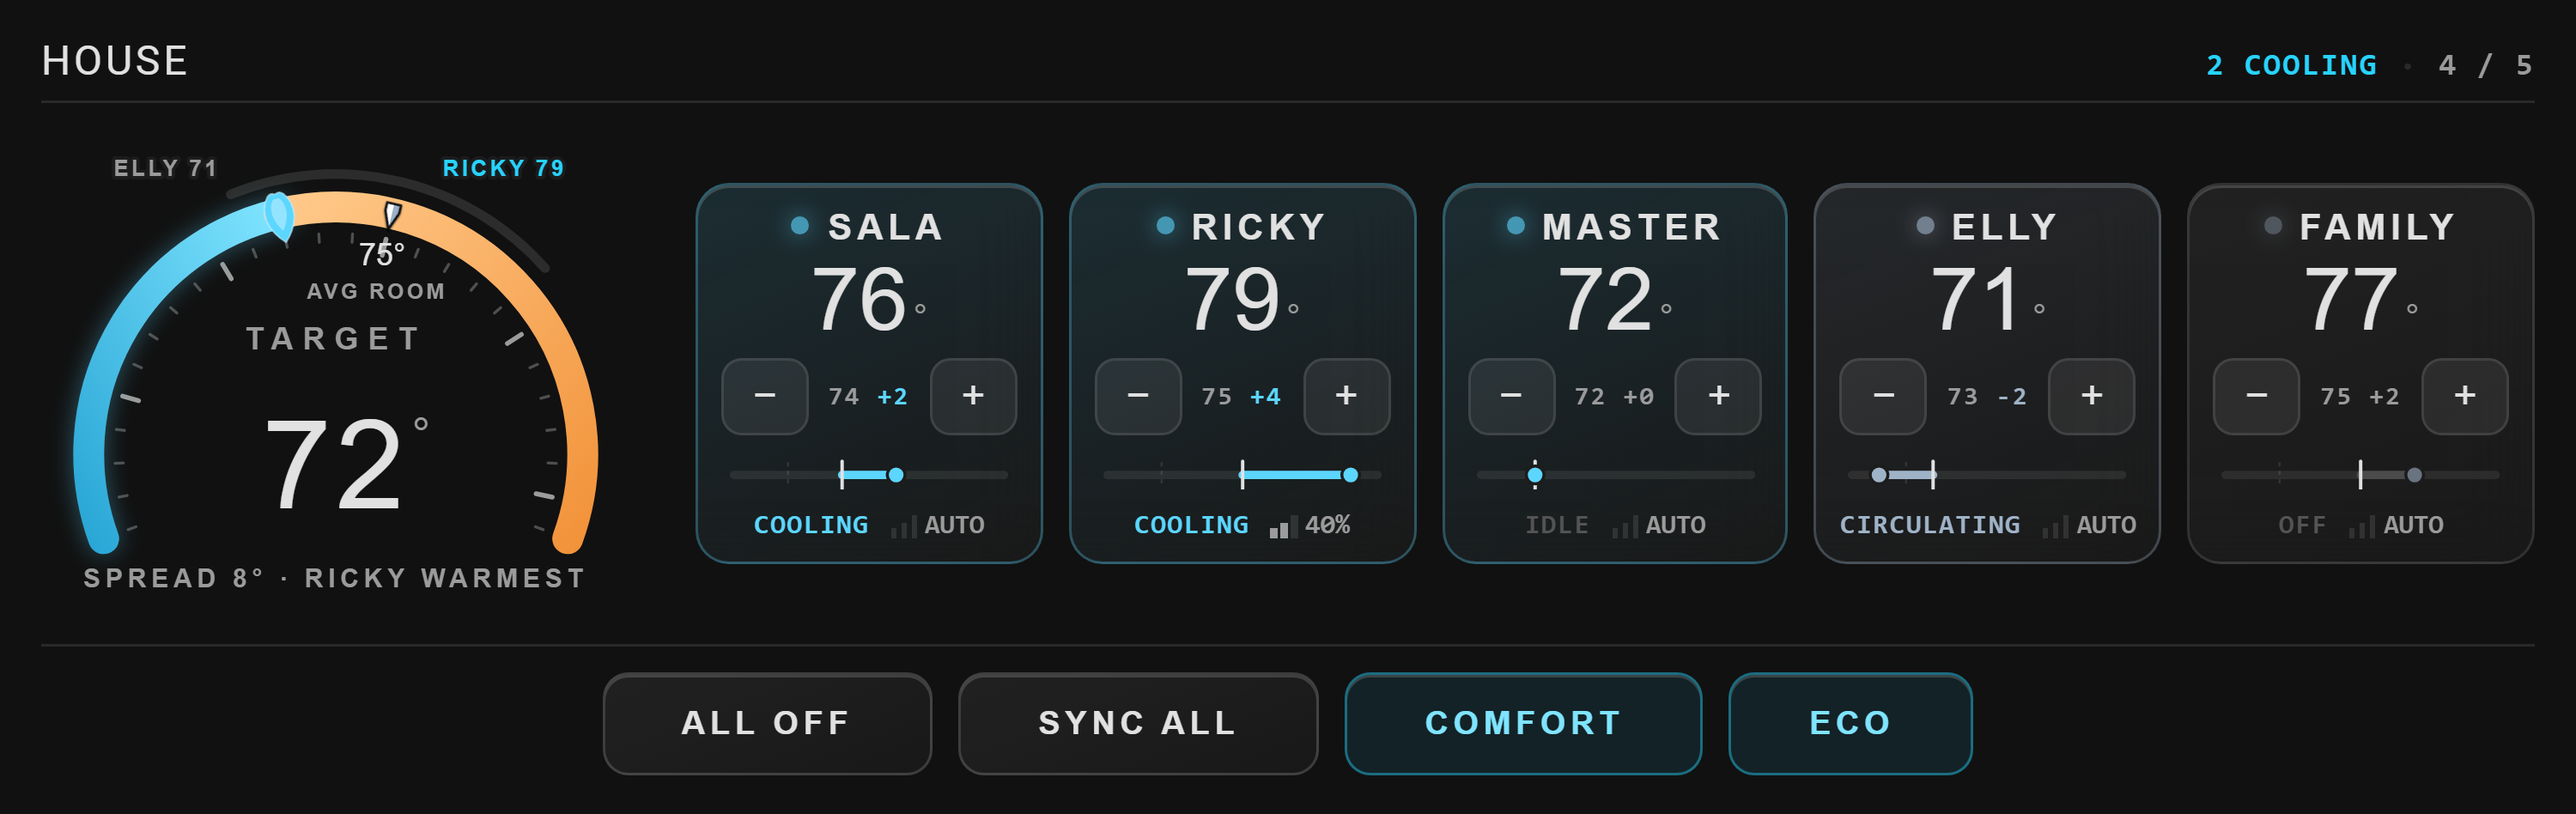
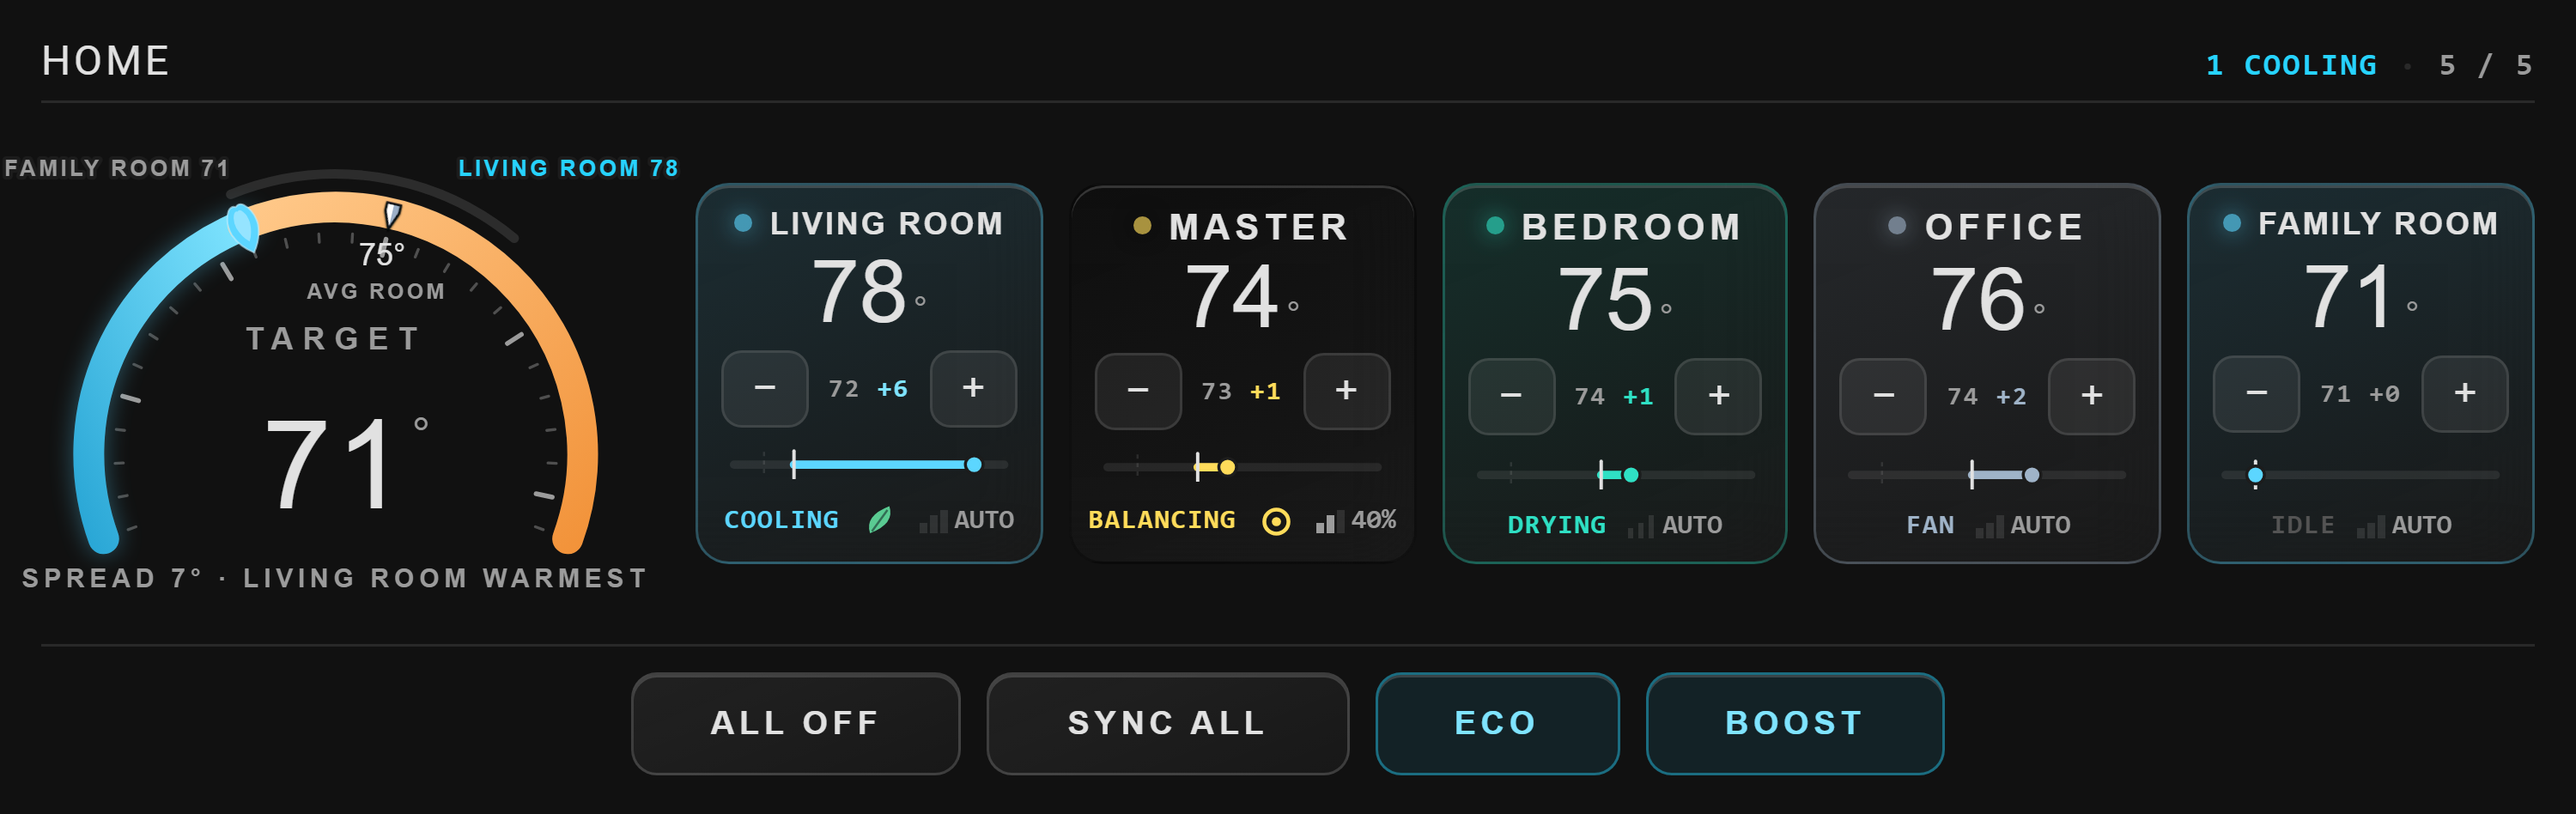
Let real room names through, and reshoot on a real house
Shooting the release screenshots with Living Room, Master, Bedroom, Office and
Family Room instead of short names broke three layouts: the two hero ring
labels flipped inward and overlapped, two word tile captions wrapped and
knocked the numerals out of line, and a truncated caption had no way back to
the full name. All three fixed, with tests, before the frames were taken.

Assets reshot: five rooms in five different states, ECO and BOOST on the bar.

diff --git a/climate-cluster-card.js b/climate-cluster-card.js
@@ -1312,24 +1312,55 @@
     return clamp(y, 80, 150);
   }
 
-  function ringLabel(text, a, ink, y) {
+  /* Where one end label wants to sit, as a box rather than as markup, so the two of
+     them can be compared before either is drawn.
+
+     Grow AWAY from the dial by preference, because that is the empty side. Near
+     either end of the range the ring end swings low and outward runs the label off
+     the card, so it flips and grows back across the arc instead. The width is
+     estimated rather than measured because this returns a string, and 5.6 per
+     character at 9.5px with this tracking is close enough to decide which way is
+     safe. */
+  function ringLabelBox(text, a, y) {
     var p = P(130, a), left = ((a % 360) + 360) % 360 > 180;
-    /* Grow AWAY from the dial by preference, because that is the empty side. Near
-       either end of the range the ring end swings low and outward runs the label off
-       the card, so it flips and grows back across the arc instead; the knockout is
-       what keeps it readable when it does. The width is estimated rather than
-       measured because this returns a string, and 5.6 per character at 9.5px with
-       this tracking is close enough to decide which way is safe. */
     var w = String(text).length * 5.6;
-    var anchor = left ? 'end' : 'start', dy = 0;
-    /* Flipped, the label runs back across its own ring end, and at the low end of
-       the range that is exactly where the needle stands. Lift it clear. */
-    if (left && p[0] - w < 48) { anchor = 'start'; dy = -11; }
-    if (!left && p[0] + w > 296) { anchor = 'end'; dy = -11; }
-    var yy = y == null ? p[1] + dy : y;
-    return '<text class="cg-ringlab" x="' + f(p[0]) + '" y="' + f(yy) + '" text-anchor="' +
-      anchor + '" dominant-baseline="central" font-size="9.5" ' +
-      'font-weight="600" letter-spacing="1.2" fill="' + ink + '">' + text + '</text>';
+    /* Always outward. The first version flipped the anchor when the label would
+       leave the card, which sends it back ACROSS the dial: measured on a real house
+       that turned two labels that could not touch into two that overlapped by 25
+       units. Growing outward and then sliding the whole label back inside the box
+       keeps them on their own sides, where they cannot meet. */
+    var anchor = left ? 'end' : 'start';
+    var x = p[0];
+    // the hero viewBox runs x 44 to 300; a label that leaves it is simply gone
+    var x0 = anchor === 'end' ? x - w : x;
+    if (x0 < 46) { x += 46 - x0; x0 = 46; }
+    if (x0 + w > 298) { x -= (x0 + w) - 298; x0 = 298 - w; }
+    return { text: text, x: x, y: y, anchor: anchor, w: w, x0: x0, x1: x0 + w };
+  }
+
+  function ringLabelDraw(b, ink) {
+    return '<text class="cg-ringlab" x="' + f(b.x) + '" y="' + f(b.y) + '" text-anchor="' +
+      b.anchor + '" dominant-baseline="central" font-size="9.5" ' +
+      'font-weight="600" letter-spacing="1.2" fill="' + ink + '">' + b.text + '</text>';
+  }
+
+  /* CARD ADDITION: the two are laid out TOGETHER, because neither can see the other
+     and a shared baseline made a collision MORE likely rather than less.
+
+     With a narrow spread both ring ends sit near twelve o'clock, and two long room
+     names then run straight through each other: measured on a real house,
+     "FAMILY ROOM 71" and "LIVING ROOM 78" overlapped into one unreadable string.
+     Side by side while they fit, because that is what reads as a pair; the warmer
+     one drops to a second line when they do not. */
+  function ringLabelPair(coldText, warmText, lo, hi, showCold) {
+    var y = ringLabelY(lo, hi);
+    var warm = ringLabelBox(warmText, hi, y);
+    if (!showCold) return ringLabelDraw(warm, '#27d3ff');
+    var cold = ringLabelBox(coldText, lo, y);
+    var GAP = 6;
+    var clear = cold.x1 + GAP <= warm.x0 || warm.x1 + GAP <= cold.x0;
+    if (!clear) warm.y = y + 12;
+    return ringLabelDraw(cold, '#8b95a2') + ringLabelDraw(warm, '#27d3ff');
   }
 
   function hero(s, d) {
@@ -1363,11 +1394,10 @@
          the dial so a long room name grows outward instead of across the band. */
       /* CARD ADDITION: with every room at the same temperature the two ends ARE the
          same end, and drawing both put one label exactly on top of the other. */
-      (d.spread === 0 ? '' :
-        ringLabel(String(d.coldestRoom.name || '').toUpperCase() + ' ' + d.roomMin, lo,
-          '#8b95a2', ringLabelY(lo, hi))) +
-      ringLabel(String(d.warmest.name || '').toUpperCase() + ' ' + d.roomMax, hi,
-        '#27d3ff', ringLabelY(lo, hi)) +
+      ringLabelPair(
+        String(d.coldestRoom.name || '').toUpperCase() + ' ' + d.roomMin,
+        String(d.warmest.name || '').toUpperCase() + ' ' + d.roomMax,
+        lo, hi, d.spread !== 0) +
       heroNeedle(ta) +
       heroPin(d.roomAvg, pa) +
       '<text class="cg-target-lb" x="168" y="164" text-anchor="middle" font-size="13" ' +
@@ -1492,6 +1522,14 @@
     return { word: m.status, live: true };
   }
 
+  /* CARD ADDITION: the caption shrinks before it truncates. Three steps rather than
+     a continuous fit, because this returns a string and cannot measure anything. */
+  function tileNameSize(len) {
+    if (!len || len <= 8) return 14;
+    if (len <= 11) return 12;
+    return 11;
+  }
+
   function tile(z, i, d) {
     /* CARD ADDITION: an unknown mode falls back rather than throwing, and a zone with
        no reading shows the dash the shipped card shows rather than the word NaN. */
@@ -1511,7 +1549,8 @@
         '; backdrop-filter:blur(14px) saturate(130%); -webkit-backdrop-filter:blur(14px) saturate(130%); ' +
         'box-shadow:inset 0 1px 0 rgba(255,255,255,.14); padding:9px 9px 8px; display:flex; ' +
         'flex-direction:column; justify-content:space-between; gap:5px;">' +
-      '<div style="display:flex; align-items:center; justify-content:center; gap:7px;">' +
+      '<div style="display:flex; align-items:center; justify-content:center; gap:7px; ' +
+        'min-width:0;">' +
         /* CARD ADDITION: it breathes, on the same 1.9s as the dial's status dot,
            from the same keyframe, so the two cards cannot drift to two rates that
            look almost the same. A room with no reading holds still: there is nothing
@@ -1519,8 +1558,22 @@
         '<span style="width:7px; height:7px; border-radius:50%; background:' + m.ink +
           '; box-shadow:0 0 9px ' + rgba(m.ink, .85) + ';' +
           (nore ? '' : ' animation:pulse 1.9s ease-in-out infinite;') + '"></span>' +
-        '<span style="font:600 14px/1 Rajdhani,sans-serif; letter-spacing:.14em; ' +
-          'text-transform:uppercase; color:#f2f5f8;">' + z.name + '</span></div>' +
+        /* CARD ADDITION: one line, always, and the whole name on it.
+
+           A real house has rooms called "Living Room" and "Family Room". At the
+           shipped 14px with .14em tracking those wrapped to two lines while "Master"
+           did not, so the numeral underneath sat at a different height on every other
+           tile and the row stopped reading as a row. Nowrap alone only traded that
+           for "LIVING R...", so the caption gives up size and tracking before it
+           gives up letters: a tile is about 110 wide and 11 characters at 12px with
+           .08em is about 96 of it. Past that it does truncate, and the full name is
+           on the tooltip, the same bargain the dial's own title makes. */
+        '<span class="cg-tilename" title="' + (z.titleAttr || '') +
+          '" style="font:600 ' + tileNameSize(z.nameLen) + 'px/1 Rajdhani,sans-serif; ' +
+          'letter-spacing:' + (z.nameLen > 8 ? '.08em' : '.14em') + '; ' +
+          'text-transform:uppercase; color:#f2f5f8; min-width:0; ' +
+          'white-space:nowrap; overflow:hidden; text-overflow:ellipsis;">' +
+          z.name + '</span></div>' +
       /* the numeral is the ROOM, the fact you walked over to check, and tapping it
          opens this zone's sheet */
       '<div data-act="sheet" style="display:flex; align-items:baseline; justify-content:center; ' +
@@ -7816,6 +7869,11 @@ ${FACE.KEYFRAMES}
           id: z.entity,
           name: escapeText(short[zi] || rawName),
           title: escapeText(rawName),
+          // the same name again, safe to drop into an attribute, for the tile's tooltip
+          titleAttr: escapeAttr(rawName),
+          // measured on the RAW string: escaping turns one ampersand into five
+          // characters, and the tile sizes its caption by length
+          nameLen: String(short[zi] || rawName).length,
           room: dead ? null : num(a.current_temperature),
           set: dead ? null : opt("set", this._setpoint(st)),
           mode: dead ? "unavailable" : opt("mode", st.state),

diff --git a/test/zone_render.test.js b/test/zone_render.test.js
@@ -261,3 +261,92 @@ test("bar: a silly action_rows is ignored rather than breaking the bar", () => {
     assert.match(bar.getAttribute("style"), /display:flex/, JSON.stringify(bad));
   }
 });
+
+test("hero: two long room names do not run through each other", () => {
+  // measured on a real house: with a narrow spread both ring ends sit near twelve
+  // o'clock, and "FAMILY ROOM 71" met "LIVING ROOM 78" head on
+  const long = JSON.parse(JSON.stringify(states));
+  long["climate.sala"].attributes.friendly_name = "Living Room";
+  long["climate.sala"].attributes.current_temperature = 78;
+  long["climate.ricky"].attributes.friendly_name = "Family Room";
+  long["climate.ricky"].attributes.current_temperature = 71;
+  long["climate.elly"].attributes.friendly_name = "Bedroom";
+  long["climate.elly"].attributes.current_temperature = 75;
+
+  const svg = html(makeGroup({}, makeHass(long, { entities })));
+  const labs = [...svg.matchAll(
+    /class="cg-ringlab" x="([-0-9.]+)" y="([-0-9.]+)" text-anchor="(\w+)"[^>]*>([^<]+)</g)]
+    .map((m) => {
+      const w = m[4].length * 5.6;
+      const x = Number(m[1]);
+      return { x0: m[3] === "end" ? x - w : x, x1: (m[3] === "end" ? x - w : x) + w,
+        y: Number(m[2]), text: m[4] };
+    });
+  assert.equal(labs.length, 2, "both ends are named");
+
+  const [a, b] = labs;
+  const apart = a.x1 <= b.x0 || b.x1 <= a.x0 || a.y !== b.y;
+  assert.ok(apart, "side by side or on two lines, never on top of each other: "
+    + JSON.stringify(labs));
+});
+
+test("hero: names that fit stay on one line", () => {
+  const svg = html(makeGroup());
+  const ys = [...svg.matchAll(/class="cg-ringlab"[^>]*y="([-0-9.]+)"/g)].map((m) => Number(m[1]));
+  assert.equal(ys[0], ys[1], "stacking is the exception, not the new normal");
+});
+
+test("hero: a label cannot leave the card", () => {
+  const long = JSON.parse(JSON.stringify(states));
+  long["climate.sala"].attributes.friendly_name = "Downstairs Guest Bedroom Annexe";
+  long["climate.sala"].attributes.current_temperature = 86;
+  const svg = html(makeGroup({}, makeHass(long, { entities })));
+  for (const m of svg.matchAll(
+    /class="cg-ringlab" x="([-0-9.]+)" y="[-0-9.]+" text-anchor="(\w+)"[^>]*>([^<]+)</g)) {
+    const w = m[3].length * 5.6, x = Number(m[1]);
+    const x0 = m[2] === "end" ? x - w : x;
+    assert.ok(x0 >= 44 && x0 + w <= 300, m[3] + " stays inside the hero viewBox");
+  }
+});
+
+test("tiles: a two word room name stays on one line", () => {
+  const long = JSON.parse(JSON.stringify(states));
+  long["climate.sala"].attributes.friendly_name = "Living Room";
+  long["climate.ricky"].attributes.friendly_name = "Family Room";
+  long["climate.elly"].attributes.friendly_name = "Master";
+  const el = makeGroup({}, makeHass(long, { entities }));
+
+  const names = [...el.shadowRoot.querySelectorAll("[data-zone] .cg-tilename")];
+  assert.equal(names.length, 3, "every tile names its room");
+  for (const n of names) {
+    const st = n.getAttribute("style") || "";
+    assert.match(st, /white-space:nowrap/, n.textContent + " must not wrap");
+    assert.match(st, /text-overflow:ellipsis/);
+  }
+  assert.equal(names[0].getAttribute("title"), "Living Room",
+    "and the full name is still reachable, the way the dial's title is");
+});
+
+test("tiles: a name carrying a quote cannot break out of the tooltip", () => {
+  const bad = JSON.parse(JSON.stringify(states));
+  bad["climate.sala"].attributes.friendly_name = 'Rick"s <b>Room</b>';
+  const el = makeGroup({}, makeHass(bad, { entities }));
+  const n = el.shadowRoot.querySelector("[data-zone] .cg-tilename");
+  assert.equal(n.getAttribute("title"), 'Rick"s <b>Room</b>', "escaped in, decoded back");
+  assert.equal(el.shadowRoot.querySelectorAll("[data-zone] b").length, 0,
+    "and no element came out of it");
+});
+
+test("tiles: the caption gives up size before it gives up letters", () => {
+  const nm = (n) => {
+    const st = JSON.parse(JSON.stringify(states));
+    st["climate.sala"].attributes.friendly_name = n;
+    return makeGroup({}, makeHass(st, { entities }))
+      .shadowRoot.querySelector("[data-zone] .cg-tilename").getAttribute("style");
+  };
+  assert.match(nm("Master"), /font:600 14px/, "a short name keeps the full size");
+  assert.match(nm("Master"), /letter-spacing:\.14em/);
+  assert.match(nm("Living Room"), /font:600 12px/, "eleven characters step down");
+  assert.match(nm("Living Room"), /letter-spacing:\.08em/, "and lose the wide tracking");
+  assert.match(nm("Downstairs Annexe"), /font:600 11px/, "and a long one steps down again");
+});

diff --git a/CHANGELOG.md b/CHANGELOG.md
@@ -119,6 +119,18 @@ every key that shipped before this release still reads the same way.
   finger on "low" drew the ring a third of the way round and the marker stepped
   forward the moment it lifted. Both now come from one pair of functions, and the
   round trip is asserted for every stop count.
+- Real room names broke three layouts, found by shooting the release screenshots with
+  a real house in them instead of the short names every earlier capture used.
+  (a) The two ring labels ran through each other: near a narrow spread both ends sit
+  close to twelve o'clock, and a label that would leave the card flipped and grew back
+  ACROSS the dial, so "FAMILY ROOM 71" and "LIVING ROOM 78" overlapped by 25 units.
+  They now always grow outward and slide back inside the box, which leaves them 96
+  units apart on one baseline. (b) A two word room name wrapped to two lines in a
+  tile while a one word name did not, so the numeral underneath sat at a different
+  height on every other tile; the caption now gives up size and tracking before it
+  gives up letters. (c) A caption that does have to truncate now carries the full
+  name as a tooltip, attribute-escaped separately from the text so a name with a
+  quote in it cannot break out of it.
 - The group card's house gauge had the same three, where a release writes every room
   rather than one setpoint, plus a fourth: a second finger landing on the gauge
   rebound its move and release handlers and stranded the old pair on the window,
